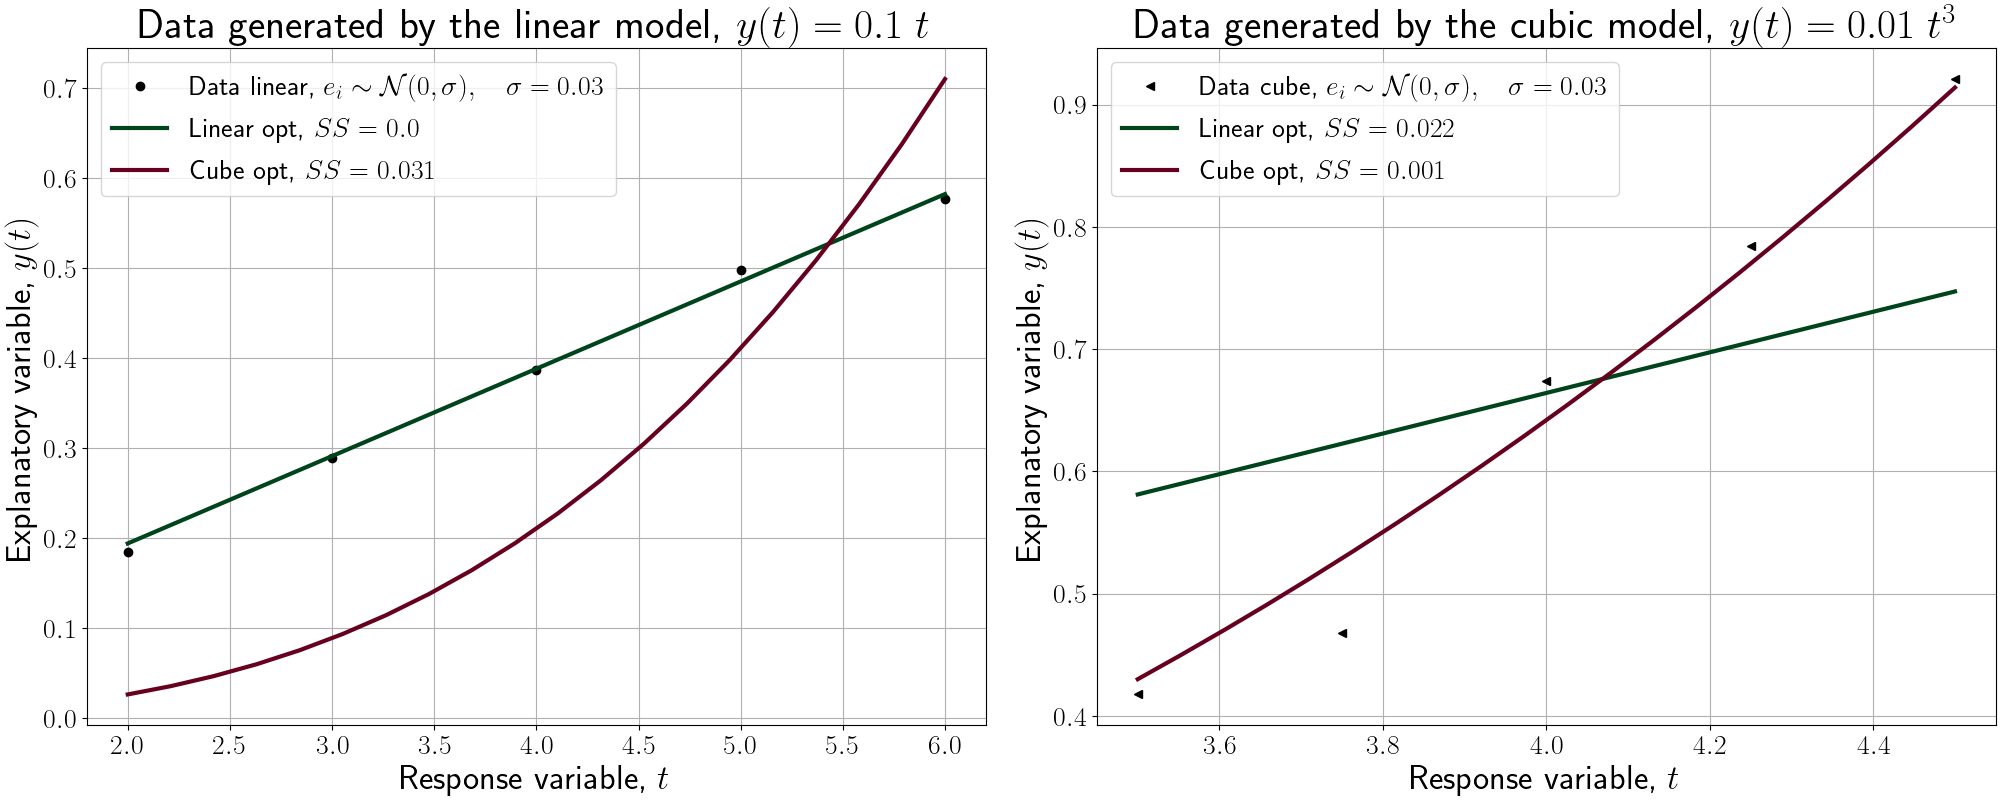
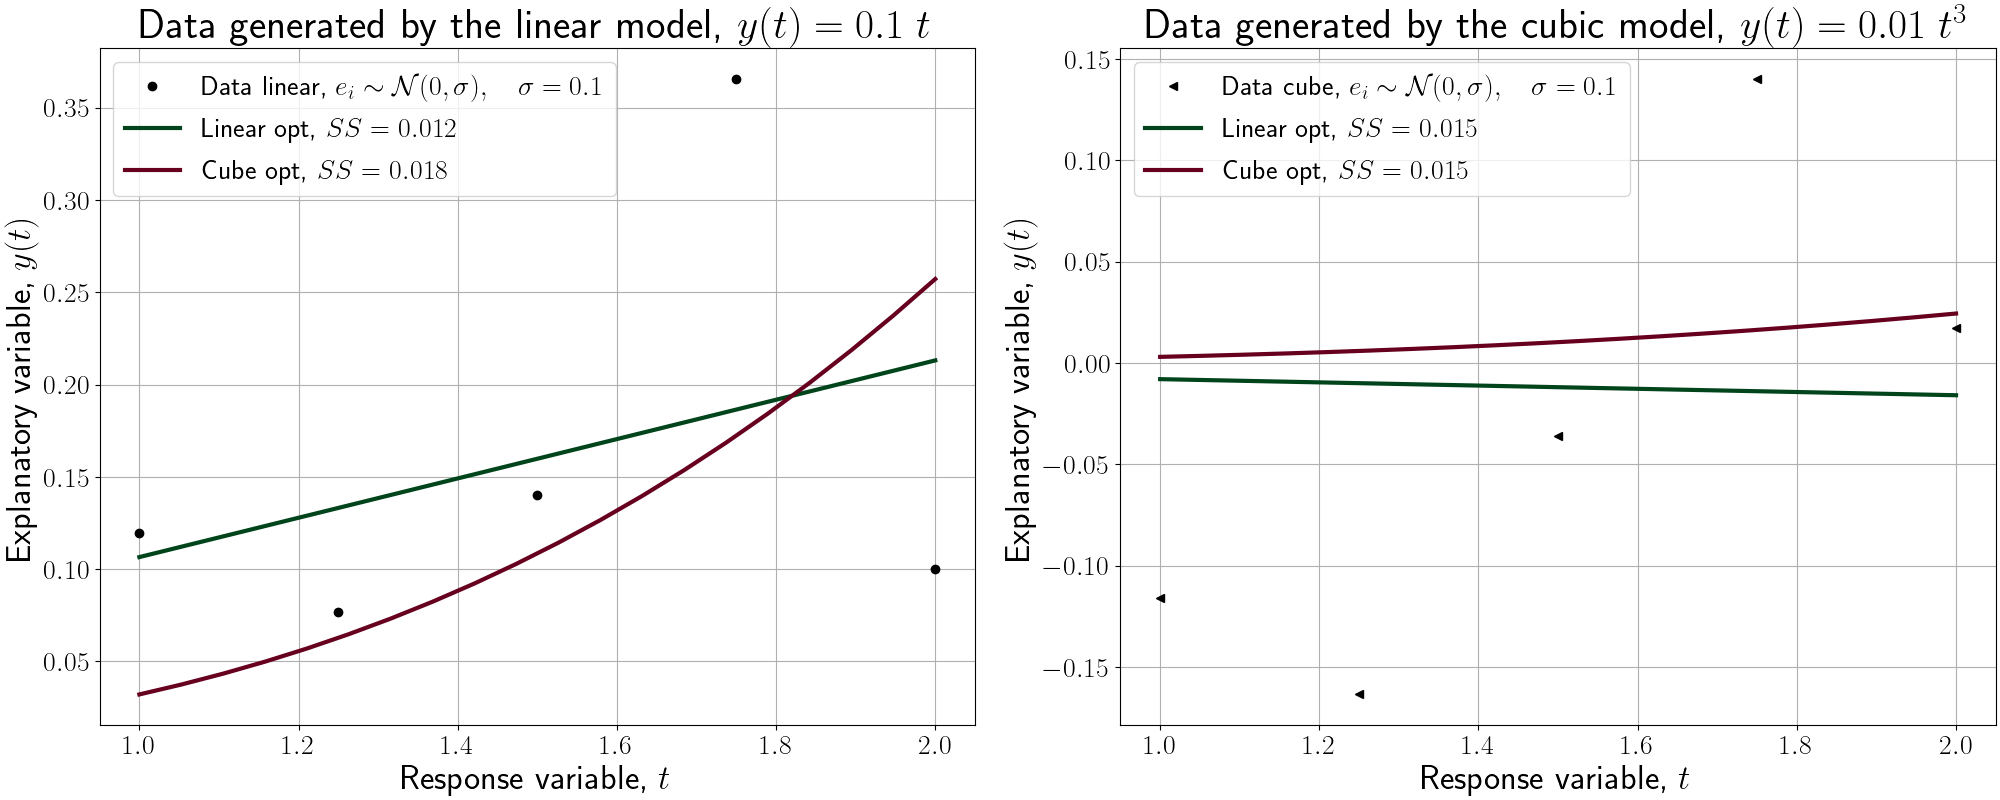
Correct error terms etc and playing around with noise levels.

diff --git a/Code/transform_data_line_and_cube.py b/Code/transform_data_line_and_cube.py
@@ -112,8 +112,8 @@ def theoretical_error_linear(res,epsilon,t,y):
 C_lin = 0.1
 C_cube = 0.01
 # Define the noise level
-sigma_lin = 0.03
-sigma_cube = 0.03
+sigma_lin = 0.1
+sigma_cube = 0.1
 # Define two transformation parameters
 # for our two models
 epsilon_lin = 0.5
@@ -124,45 +124,45 @@ epsilon_cube = 0.5
 # UNCOMMENT THIS SECTION IF YOU WANT TO GENERATE NEW DATA
 #=================================================================================
 #=================================================================================
-# # Define the number of data points
-# num_points = 5
-# # Define the errors of the linear model
-# errors_linear = random.normal(0, sigma_lin, size=(num_points,))
-# # Define the errors of the cubic model
-# errors_cubic = random.normal(0, sigma_cube, size=(num_points,))
-# #---------------------------------------------------------------------------------
-# #---------------------------------------------------------------------------------
-# # Generate data from the linear model
-# t_lin = linspace(2,6,num_points,endpoint=True)
-# data_lin = array([C_lin*t_temp+errors_linear[index] for index,t_temp in enumerate(t_lin)])
-# # Define the file name
-# file_name_lin = "../Data/new_data_linear_data_sigma_" + str(round(sigma_lin,3)).replace(".","p") + ".csv"
-# # Save the linear data to file
-# pd.DataFrame(data = array([list(t_lin), list(data_lin)]).T,index=["Row "+str(temp_index+1) for temp_index in range(5)],columns=["t", "y(t)"]).to_csv(file_name_lin)
-# #---------------------------------------------------------------------------------
-# #---------------------------------------------------------------------------------
-# # Generate data from the cubic model
-# t_cube = linspace(3.5,4.5,num_points,endpoint=True)
-# data_cube = array([C_cube*(t_temp)**3+errors_cubic[index] for index,t_temp in enumerate(t_cube)])
-# # Define the file name
-# file_name_cube = "../Data/new_data_cubic_data_sigma_" + str(round(sigma_cube,3)).replace(".","p") + ".csv"
-# # Save the cubic data to file
-# pd.DataFrame(data = array([list(t_cube), list(data_cube)]).T,index=["Row "+str(temp_index+1) for temp_index in range(5)],columns=["t", "y(t)"]).to_csv(file_name_cube)
+# Define the number of data points
+num_points = 5
+# Define the errors of the linear model
+errors_linear = random.normal(0, sigma_lin, size=(num_points,))
+# Define the errors of the cubic model
+errors_cubic = random.normal(0, sigma_cube, size=(num_points,))
+#---------------------------------------------------------------------------------
+#---------------------------------------------------------------------------------
+# Generate data from the linear model
+t_lin = linspace(1,2,num_points,endpoint=True)
+data_lin = array([C_lin*t_temp+errors_linear[index] for index,t_temp in enumerate(t_lin)])
+# Define the file name
+file_name_lin = "../Data/new_data_linear_data_sigma_" + str(round(sigma_lin,3)).replace(".","p") + ".csv"
+# Save the linear data to file
+pd.DataFrame(data = array([list(t_lin), list(data_lin)]).T,index=["Row "+str(temp_index+1) for temp_index in range(num_points)],columns=["t", "y(t)"]).to_csv(file_name_lin)
+#---------------------------------------------------------------------------------
+#---------------------------------------------------------------------------------
+# Generate data from the cubic model
+t_cube = linspace(1,2,num_points,endpoint=True)
+data_cube = array([C_cube*(t_temp)**3+errors_cubic[index] for index,t_temp in enumerate(t_cube)])
+# Define the file name
+file_name_cube = "../Data/new_data_cubic_data_sigma_" + str(round(sigma_cube,3)).replace(".","p") + ".csv"
+# Save the cubic data to file
+pd.DataFrame(data = array([list(t_cube), list(data_cube)]).T,index=["Row "+str(temp_index+1) for temp_index in range(num_points)],columns=["t", "y(t)"]).to_csv(file_name_cube)
 #=================================================================================
 #=================================================================================
 # Read data from a file
 #=================================================================================
 #=================================================================================
-# Linear data: define the file we want to read the data from
-cubic_data_str = "../Data/cubic_data_sigma_" + str(round(sigma_cube,3)).replace(".","p") + ".csv"
-# Read the data from the file
-t_cube, data_cube = read_generated_data(cubic_data_str)
-# Cubic data: define the file we want to read the data from
-linear_data_str = "../Data/linear_data_sigma_" + str(sigma_lin).replace(".","p") + ".csv"
-# Read the data from the file
-t_lin, data_lin = read_generated_data(linear_data_str)
-# Calculate the number of points
-num_points = len(t_lin)
+# # Linear data: define the file we want to read the data from
+# cubic_data_str = "../Data/cubic_data_sigma_" + str(round(sigma_cube,3)).replace(".","p") + ".csv"
+# # Read the data from the file
+# t_cube, data_cube = read_generated_data(cubic_data_str)
+# # Cubic data: define the file we want to read the data from
+# linear_data_str = "../Data/linear_data_sigma_" + str(sigma_lin).replace(".","p") + ".csv"
+# # Read the data from the file
+# t_lin, data_lin = read_generated_data(linear_data_str)
+# # Calculate the number of points
+# num_points = len(t_lin)
 #=================================================================================
 #=================================================================================
 # Fit models to data
@@ -321,14 +321,16 @@ for epsilon in epsilon_vec_lin:
     t_trans = array([t_lin[index]*cos(epsilon)-y*sin(epsilon) for index,y in enumerate(data_lin)])
     # Transform the data points with the given transformation parameter
     y_trans = array([t_lin[index]*sin(epsilon)+y*cos(epsilon) for index,y in enumerate(data_lin)])
-    # Now, we fit the linear model to the transformed data
-    popt, pcov = curve_fit(linear_model, t_trans, y_trans)
+    # Extract the temporary parameter
+    C_temp = popt_data_lin_fit_lin[0]
+    # Calculate the transformed parameter C in y=Ct
+    C_hat = ((sin(epsilon)+C_temp*cos(epsilon))/(cos(epsilon)-C_temp*sin(epsilon)))
     # Next, we calculate the residuals
-    residuals = linear_model(t_trans,*popt)-y_trans    
+    residuals = array([C_hat*t_temp for t_temp in t_trans])-y_trans    
     # Lastly, we append the sum of squares
     SS_data_lin_fit_lin.append(sum(array([res**2 for res in residuals]))/(len(t_trans)-1))
     # Now, let's calculate the theoretical prediction
-    SS_theo_data_lin_fit_lin.append(sum(array([theoretical_error_linear(res,epsilon,t_lin[index],data_lin[index]) for index,res in enumerate(residuals)]))/(len(t_lin)-1))
+    SS_theo_data_lin_fit_lin.append(sum(array([theoretical_error_linear(res,epsilon,t_lin[index],data_lin[index]) for index,res in enumerate(res_data_lin_fit_lin)]))/(len(t_lin)-1))
 # Lastly, we cast our list as an np.array    
 SS_data_lin_fit_lin = array(SS_data_lin_fit_lin)
 # Also, we cast or theoretical list as an array
@@ -351,14 +353,16 @@ for epsilon in epsilon_vec_cube:
     t_trans = array([t_lin[index]*exp(epsilon) for index,y in enumerate(data_lin)])
     # Transform the data points with the given transformation parameter
     y_trans = array([y*exp(epsilon) for index,y in enumerate(data_lin)])
-    # Now, we fit the cubic model to the transformed data
-    popt, pcov = curve_fit(cubic_model, t_trans, y_trans)
+    # Extract the temporary parameter
+    C_temp = popt_data_lin_fit_cube[0]
+    # Calculate the transformed parameter C in y=Ct^3
+    C_hat = C_temp*exp(-2*epsilon)
     # Next, we calculate the residuals
-    residuals = cubic_model(t_trans,*popt)-y_trans    
+    residuals = array([C_hat*(t_temp**3) for t_temp in t_trans])-y_trans
     # Lastly, we append the sum of squares
     SS_data_lin_fit_cube.append(sum(array([res**2 for res in residuals]))/(len(t_trans)-1))
     # Also, we calculate our theoretical prediction
-    SS_theo_data_lin_fit_cube.append(sum(array([(res**2)*((1+4*epsilon)**2) for res in residuals]))/(len(t_trans)-1))
+    SS_theo_data_lin_fit_cube.append(sum(array([(res**2)*((1+4*epsilon)**2) for res in res_data_lin_fit_cube]))/(len(t_trans)-1))
 # Lastly, we cast our list as an np.array    
 SS_data_lin_fit_cube = array(SS_data_lin_fit_cube)
 # Also, we cast our sum of squares as an np array
@@ -382,14 +386,16 @@ for epsilon in epsilon_vec_lin:
     t_trans = array([t_cube[index]*cos(epsilon)-y*sin(epsilon) for index,y in enumerate(data_cube)])
     # Transform the data points with the given transformation parameter
     y_trans = array([t_cube[index]*sin(epsilon)+y*cos(epsilon) for index,y in enumerate(data_cube)])
-    # Now, we fit the linear model to the transformed data
-    popt, pcov = curve_fit(linear_model, t_trans, y_trans)
+    # Extract the temporary parameter
+    C_temp = popt_data_cube_fit_lin[0]
+    # Calculate the transformed parameter C in y=Ct
+    C_hat = ((sin(epsilon)+C_temp*cos(epsilon))/(cos(epsilon)-C_temp*sin(epsilon)))
     # Next, we calculate the residuals
-    residuals = linear_model(t_trans,*popt)-y_trans    
+    residuals = array([C_hat*t_temp for t_temp in t_trans])-y_trans
     # Lastly, we append the sum of squares
     SS_data_cube_fit_lin.append(sum(array([res**2 for res in residuals]))/(len(t_trans)-1))
     # Now, let's calculate the theoretical prediction
-    SS_theo_data_cube_fit_lin.append(sum(array([theoretical_error_linear(res,epsilon,t_cube[index],data_cube[index]) for index,res in enumerate(residuals)]))/(len(t_lin)-1))    
+    SS_theo_data_cube_fit_lin.append(sum(array([theoretical_error_linear(res,epsilon,t_cube[index],data_cube[index]) for index,res in enumerate(res_data_cube_fit_lin)]))/(len(t_lin)-1))    
 # Lastly, we cast our list as an np.array    
 SS_data_cube_fit_lin = array(SS_data_cube_fit_lin)
 # Next, we cast our list as an np.array
@@ -409,14 +415,16 @@ for epsilon in epsilon_vec_cube:
     t_trans = array([t_cube[index]*exp(epsilon) for index,y in enumerate(data_cube)])
     # Transform the data points with the given transformation parameter
     y_trans = array([y*exp(epsilon) for index,y in enumerate(data_cube)])
-    # Now, we fit the cubic model to the transformed data
-    popt, pcov = curve_fit(cubic_model, t_trans, y_trans)
+    # Extract the temporary parameter
+    C_temp = popt_data_cube_fit_cube[0]
+    # Calculate the transformed parameter C in y=Ct^3
+    C_hat = C_temp*exp(-2*epsilon)
     # Next, we calculate the residuals
-    residuals = cubic_model(t_trans,*popt)-y_trans    
+    residuals = array([C_hat*(t_temp**3) for t_temp in t_trans])-y_trans
     # Lastly, we append the sum of squares
     SS_data_cube_fit_cube.append(sum(array([res**2 for res in residuals]))/(len(t_trans)-1))
     # Also, we calculate our theoretical prediction
-    SS_theo_data_cube_fit_cube.append(sum(array([(res**2)*((1+4*epsilon)**2) for res in residuals]))/(len(t_trans)-1))    
+    SS_theo_data_cube_fit_cube.append(sum(array([(res**2)*((1+4*epsilon)**2) for res in res_data_cube_fit_cube]))/(len(t_trans)-1))    
 # Lastly, we cast our list as an np.array    
 SS_data_cube_fit_cube = array(SS_data_cube_fit_cube)
 # We also cast it to an np.array
@@ -445,7 +453,7 @@ axs_2[0].plot(epsilon_vec_lin,SS_theo_data_lin_fit_cube, 'D', label="Theoretical
 axs_2[0].grid()
 # Set the limits
 #axs_2[0].set_xlim([-1, 1])
-#axs_2[0].set_ylim([-1, 1])
+#axs_2[0].set_ylim([0, 0.3])
 # Legends and axes labels
 axs_2[0].legend(loc='best',prop={"size":20})
 axs_2[0].set_ylabel('Fit, $SS(\\epsilon)$',fontsize=25)
@@ -470,7 +478,7 @@ axs_2[1].plot(epsilon_vec_lin,SS_theo_data_cube_fit_cube, 'D', label="Theoretica
 axs_2[1].grid()
 # Set the limits
 #axs_2[1].set_xlim([-2, 2])
-#axs_2[1].set_ylim([-2, 2])
+#axs_2[1].set_ylim([0, 0.3])
 # Legends and axes labels
 axs_2[1].legend(loc='best',prop={"size":20})
 axs_2[1].set_ylabel('Fit, $SS(\\epsilon)$',fontsize=25)
